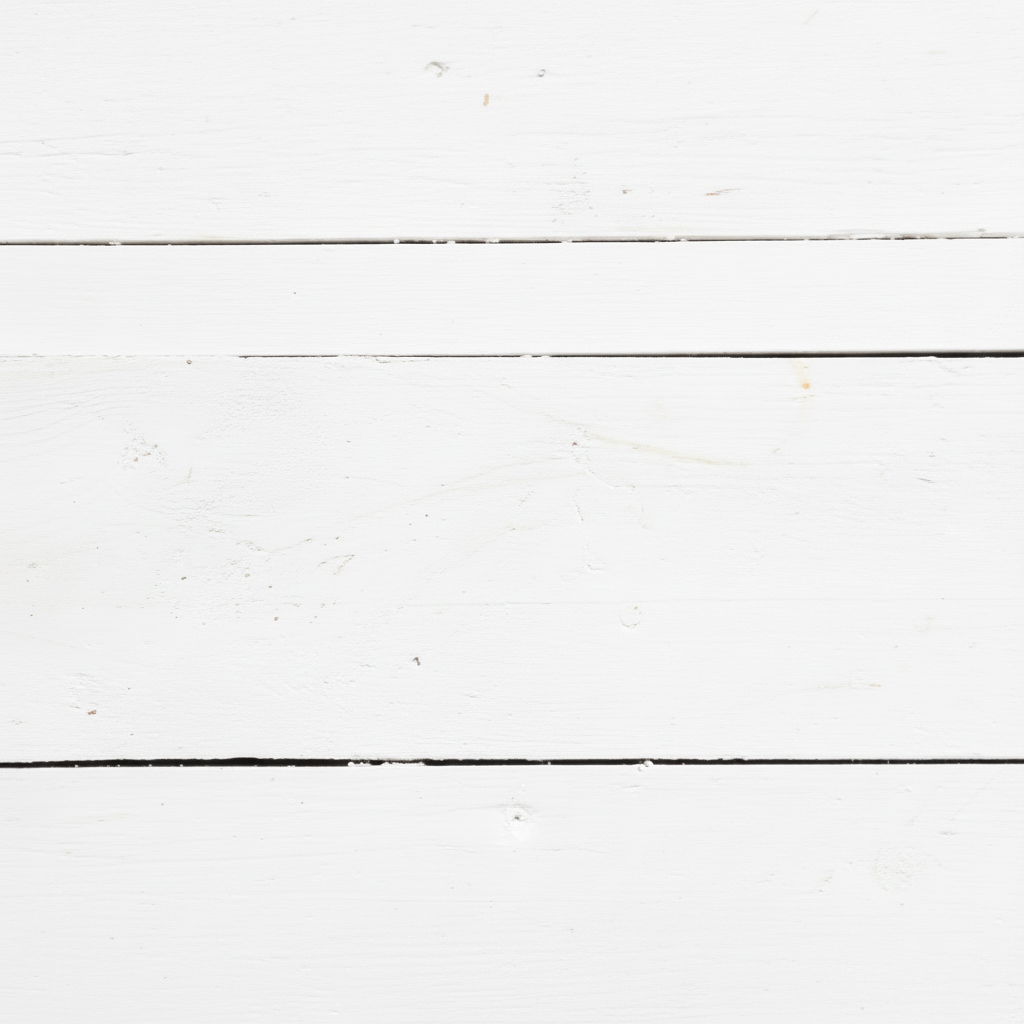
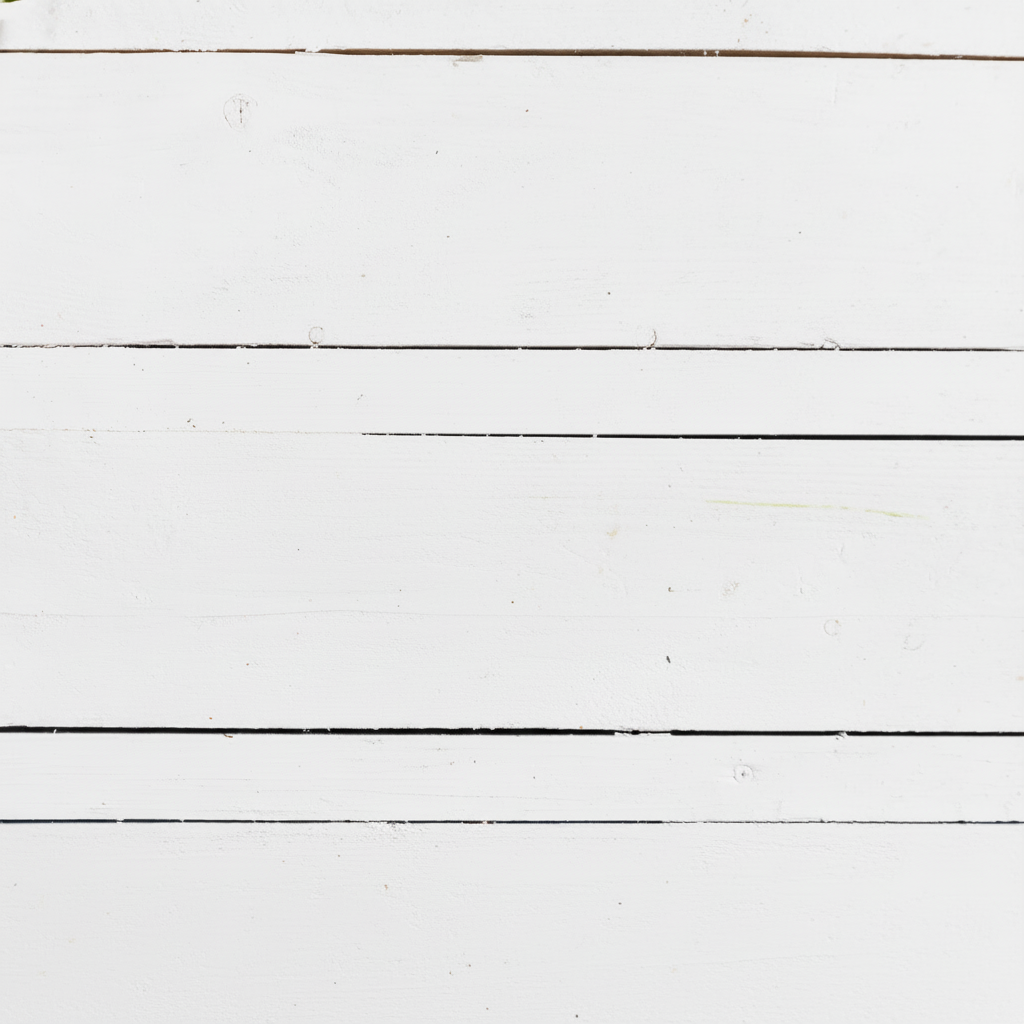
Changes

diff --git a/src/App.tsx b/src/App.tsx
@@ -13,9 +13,9 @@ const App = () => (
   <div
     className="min-h-screen"
     style={{
-      backgroundImage: `linear-gradient(hsl(var(--background) / 0.35), hsl(var(--background) / 0.35)), url(${woodPattern})`,
+      backgroundImage: `url(${woodPattern})`,
       backgroundRepeat: "repeat",
-      backgroundSize: "1600px auto",
+      backgroundSize: "1200px auto",
       backgroundPosition: "top center",
     }}
   >
